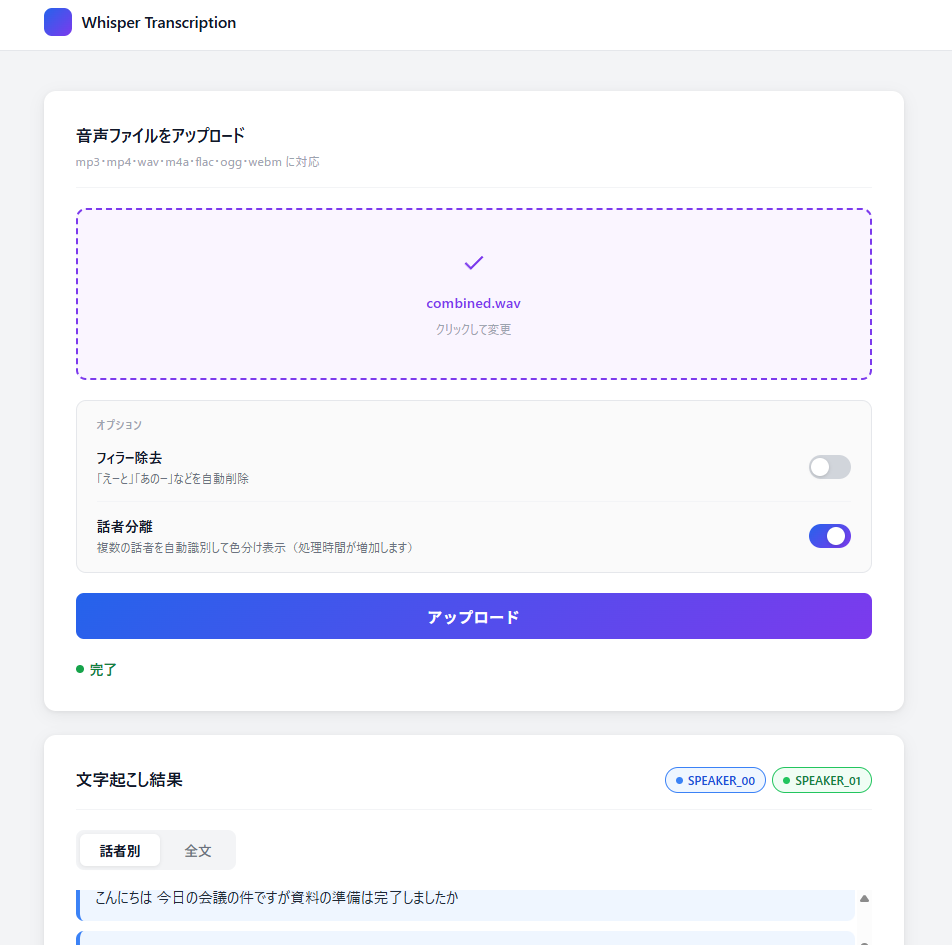
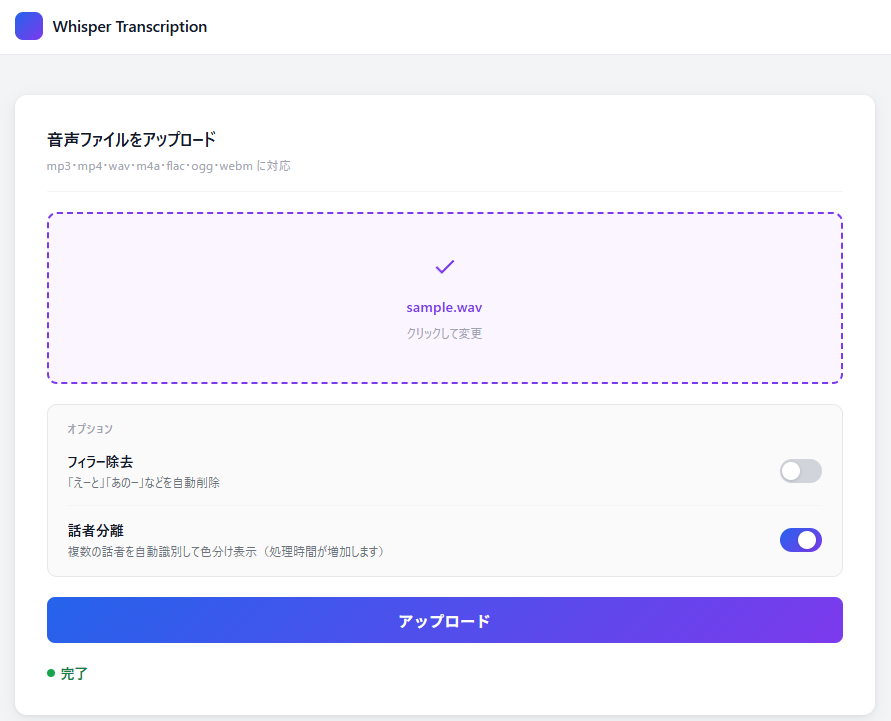
スクリーンショットを更新

diff --git a/backend/app/services/whisper_service.py b/backend/app/services/whisper_service.py
@@ -43,7 +43,7 @@ def get_whisper_model():
     if _whisper_model is None:
         device = "cuda" if torch.cuda.is_available() else "cpu"
         print(f"[INFO] Whisper使用デバイス: {device}")
-        _whisper_model = whisper.load_model("small", device=device)
+        _whisper_model = whisper.load_model("medium", device=device)
     return _whisper_model
 
 
